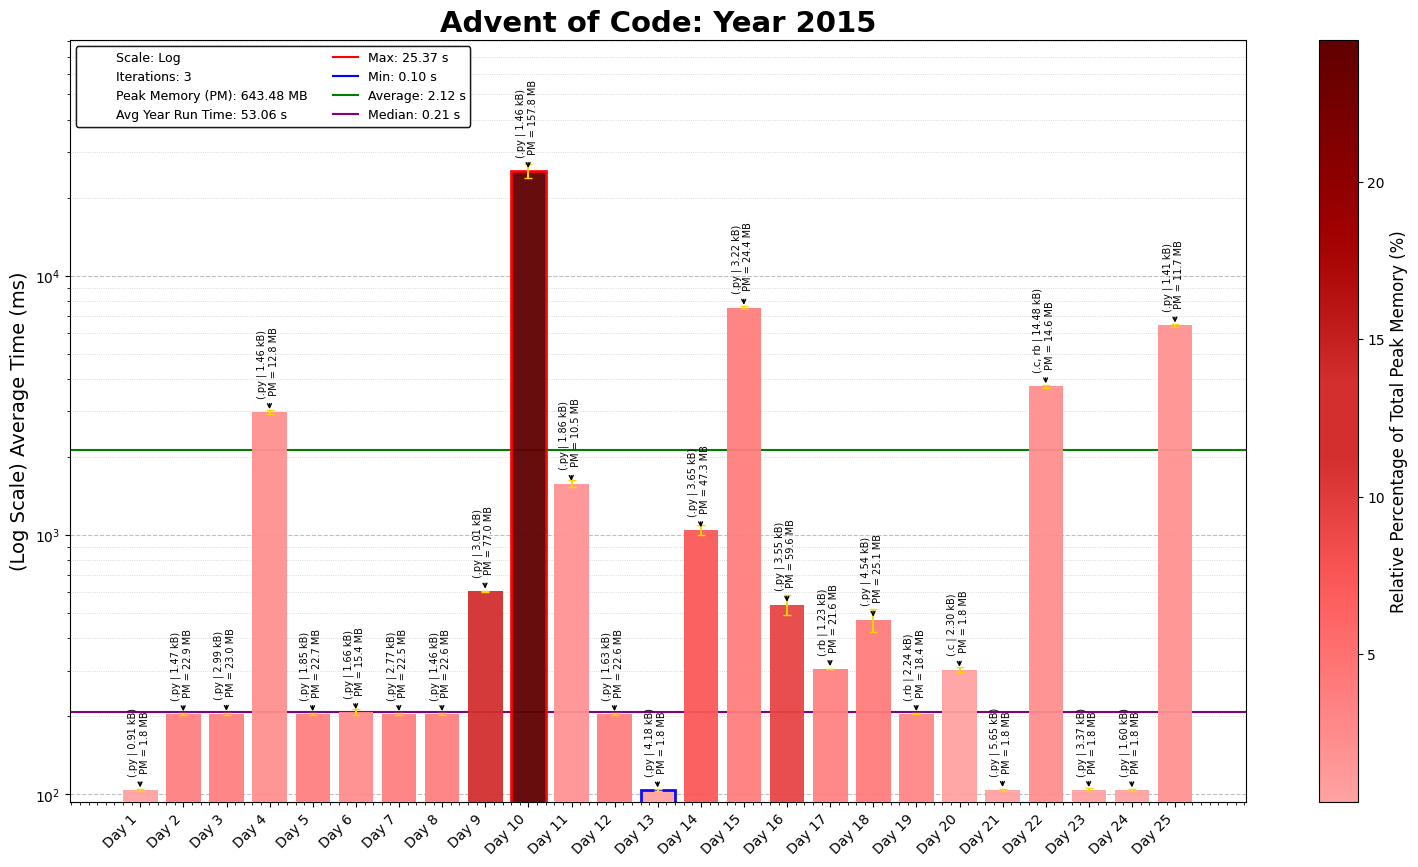
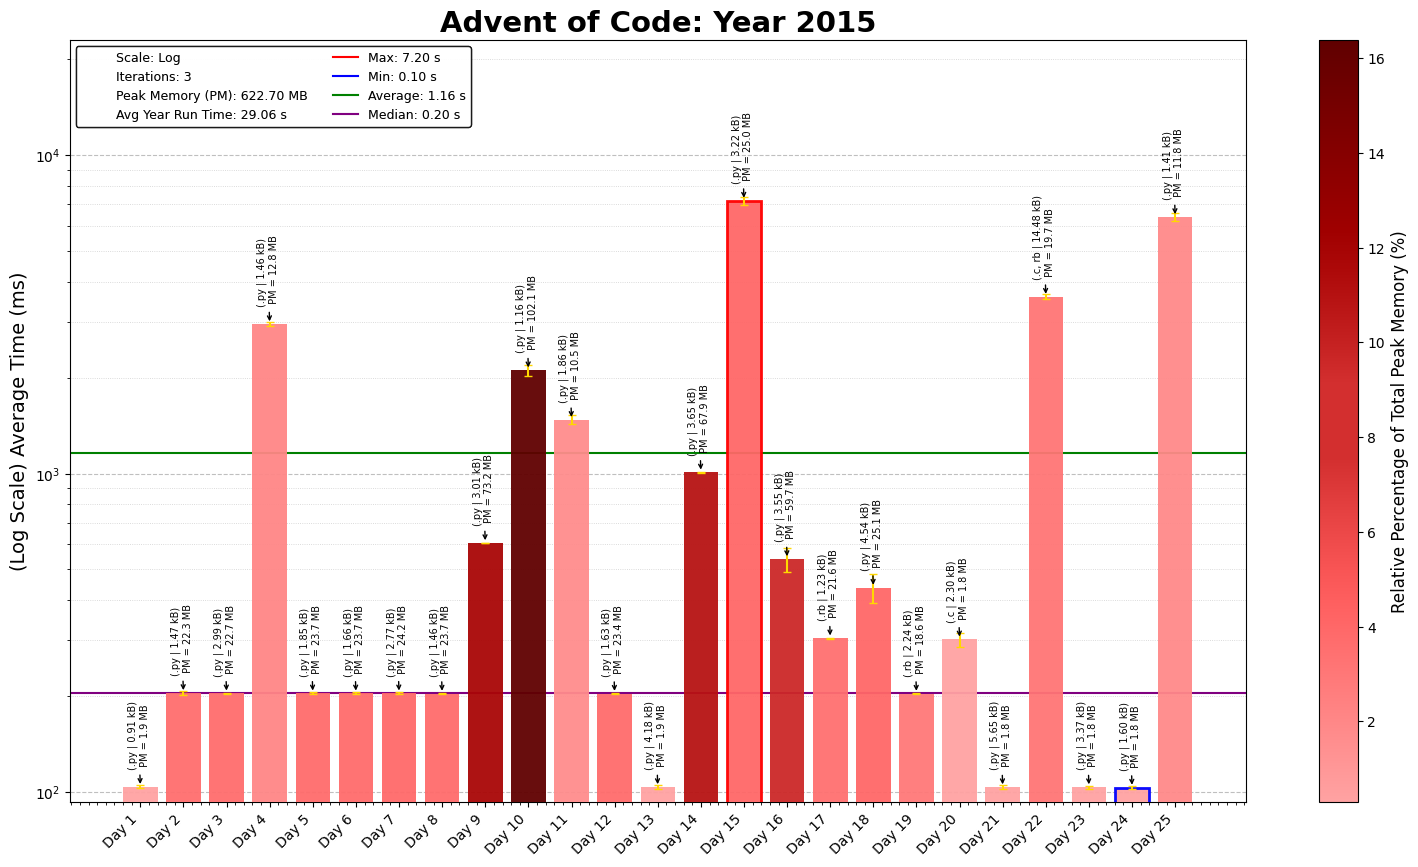
2015 day 10 (remove redundant str/int convs)

diff --git a/2015/10/2015Day10.py b/2015/10/2015Day10.py
@@ -4,49 +4,40 @@
 # Solution by: [abbasmoosajee07]
 # Brief: [Encoding over multiple iterations]
 
-import sys, os
-
-# increas the maximum num of str stored in variables
-sys.set_int_max_str_digits(10000000) 
-
-def look_and_say(number):
-    # Convert the number to a string to work with each digit
-    num_str = str(number)
-    
-    result = []
-    i = 0
-    
-    while i < len(num_str):
-        count = 1  # Start counting occurrences of the current digit
-        # Count consecutive identical digits
-        while i + 1 < len(num_str) and num_str[i] == num_str[i + 1]:
-            count += 1
-            i += 1
-        
-        # Append the count followed by the digit itself
-        result.append(f"{count}{num_str[i]}")
-        i += 1
-    
-    # Join the result list into a final string and return as an integer
-    return int("".join(result))
-
-# Example usage
+import sys, os, time
+start_time = time.time()
 
 D10_file = 'Day10_input.txt'
 D10_file_path = os.path.join(os.path.dirname(os.path.abspath(__file__)), D10_file)
 
 with open(D10_file_path) as file:
-   input_data = file.read()
-   
-num = int(input_data)
+    input_data = file.read()
+
+# increas the maximum num of str stored in variables
+sys.set_int_max_str_digits(10000000)
+
+def look_and_say(num_str):
+    result = []
+    i = 0
+    while i < len(num_str):
+        count = 1
+        while i + 1 < len(num_str) and num_str[i] == num_str[i + 1]:
+            count += 1
+            i += 1
+        result.append(f"{count}{num_str[i]}")
+        i += 1
+    return ''.join(result)
+
+num = input_data
 encoding_runs = 50
-encoded_vals = []
+encoded_vals = {}
 
 for n in range(encoding_runs):
-    output = look_and_say(num)
-    num = output
-    encoded_vals.append(len(str(num)))
+    num = look_and_say(num)
+    encoded_vals[n] = len(num)
 
 
 print(f"Length of encoded string after 40 runs: {encoded_vals[39]}")
 print(f"Length of encoded string after 50 runs: {encoded_vals[49]}")
+
+print(f"Execution Time = {time.time() - start_time:.5f}s")
